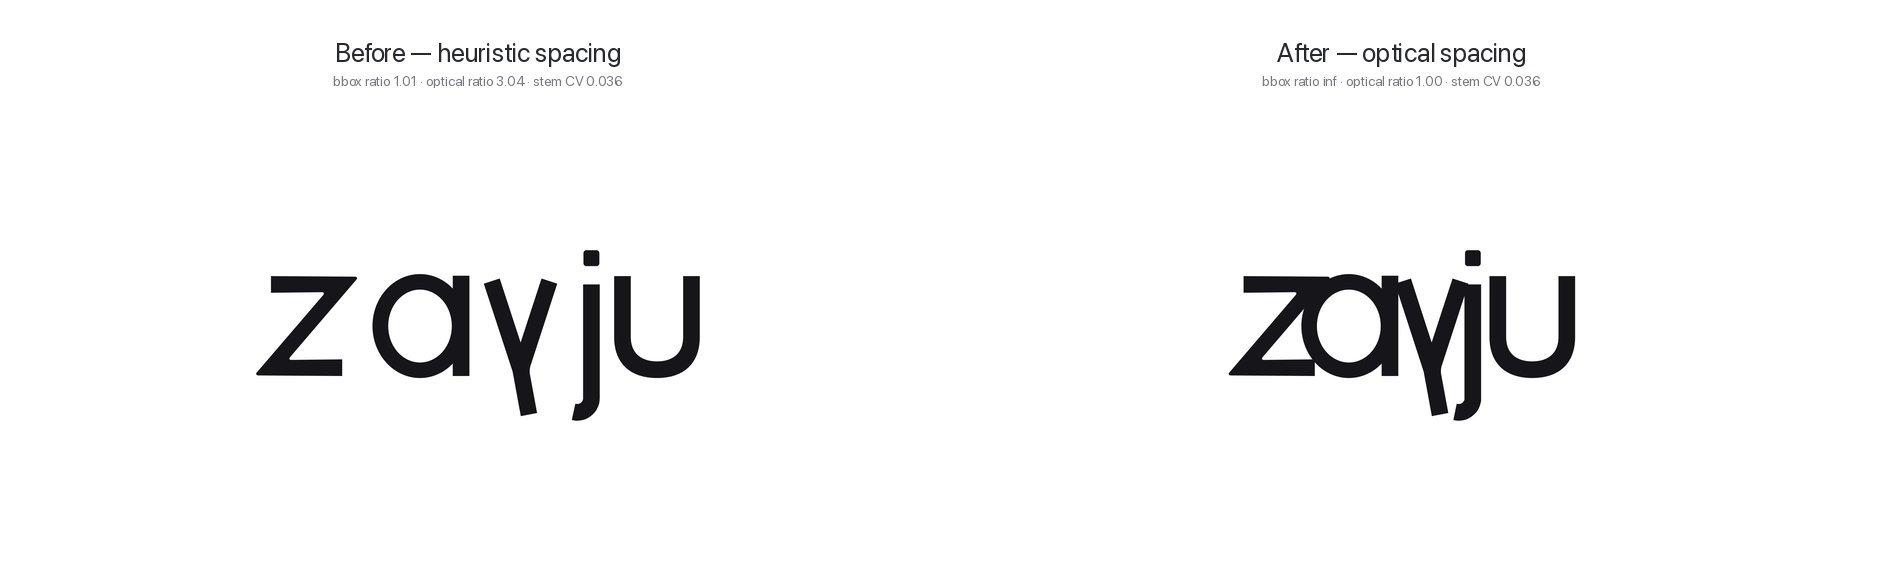
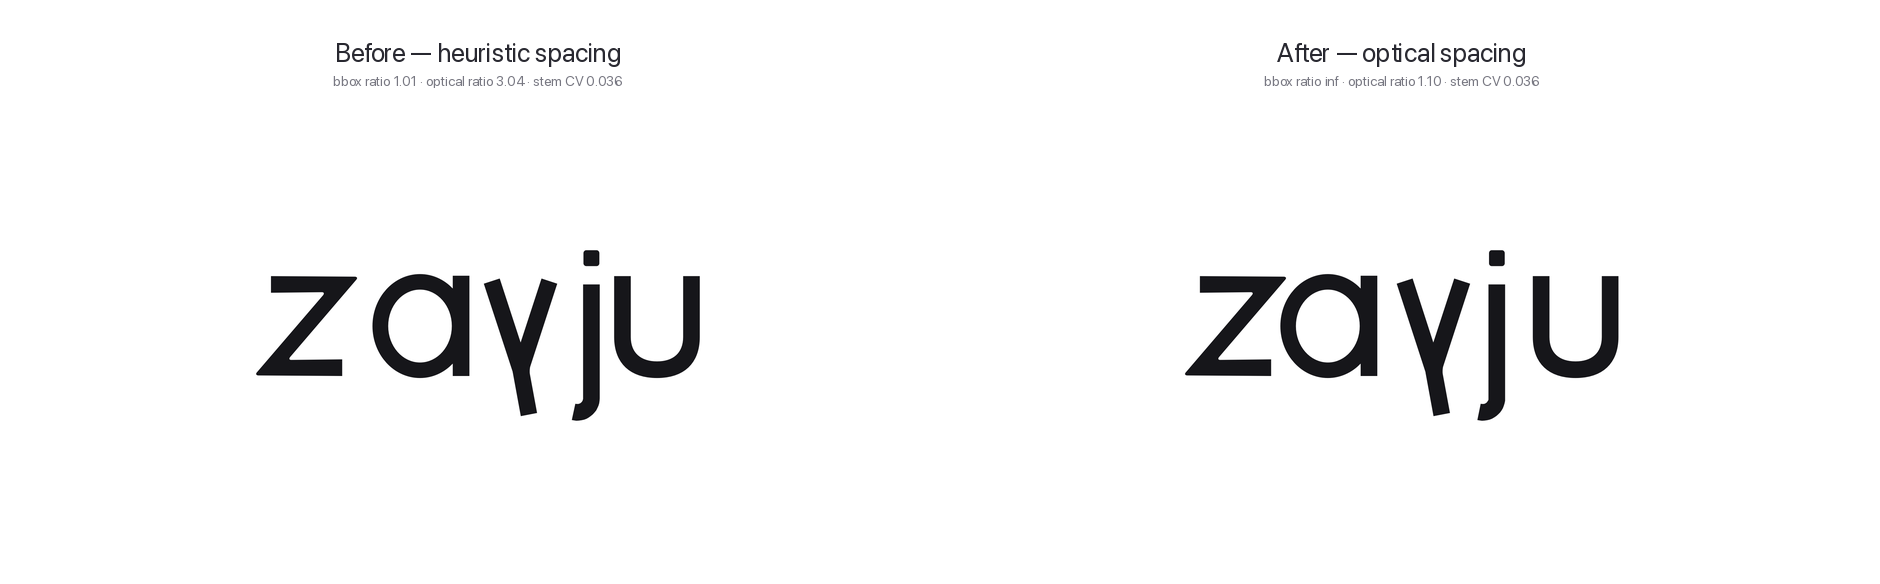
Use median optical gap as default spacing target
Avoid crushing diagonal pairs when evening zayju; keep overall air closer
to the pre-fit silhouette rhythm.

Changed region(s): [[0.617, 0.4315, 0.8638, 0.7397], [0.6787, 0.1233, 0.833, 0.1541]]

diff --git a/src/typekernel/optics/space.py b/src/typekernel/optics/space.py
@@ -303,14 +303,16 @@ def space_word_optical(
         lsb, rsb = suggest_sidebearings_optical(g, ctx, samples=samples)
         packed.append(with_sidebearings(g, lsb, rsb))
 
-    # 2) choose target from median bbox gap if needed
+    # 2) choose target from median *optical* gap (kern=0) so overall air stays
+    # familiar while pair rhythm evens out. Bbox median tends to crush pairs
+    # that already carry large silhouette white (diagonals, hooks).
     if target_gap is None:
-        bbox_gaps = [
-            pair_gap_bbox(packed[i], packed[i + 1], kern=0.0)
+        opt_gaps = [
+            pair_gap_optical(packed[i], packed[i + 1], kern=0.0, samples=samples)
             for i in range(len(packed) - 1)
         ]
-        bbox_gaps.sort()
-        target = bbox_gaps[len(bbox_gaps) // 2] if bbox_gaps else 0.12 * ctx.x_height
+        opt_gaps.sort()
+        target = opt_gaps[len(opt_gaps) // 2] if opt_gaps else 0.16 * ctx.x_height
     else:
         target = target_gap
 

diff --git a/src/typekernel/parts/metrics.py b/src/typekernel/parts/metrics.py
@@ -61,13 +61,13 @@ class KernTable:
         re-space (bearings + kern) prefer
         :func:`typekernel.optics.space.space_word_optical`.
         """
-        from typekernel.optics.space import fit_kern_pair, pair_gap_bbox
+        from typekernel.optics.space import fit_kern_pair, pair_gap_optical
 
         if len(glyphs) != len(names):
             raise ValueError("names length must match glyphs")
         if target_gap is None:
             gaps = [
-                pair_gap_bbox(glyphs[i], glyphs[i + 1], kern=0.0)
+                pair_gap_optical(glyphs[i], glyphs[i + 1], kern=0.0, samples=samples)
                 for i in range(len(glyphs) - 1)
             ]
             gaps.sort()
